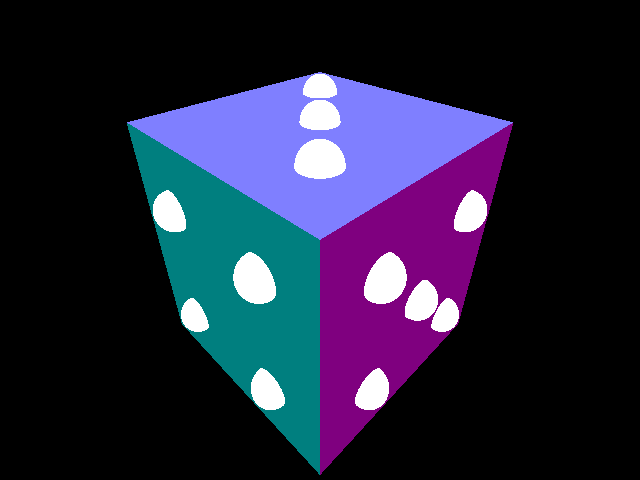
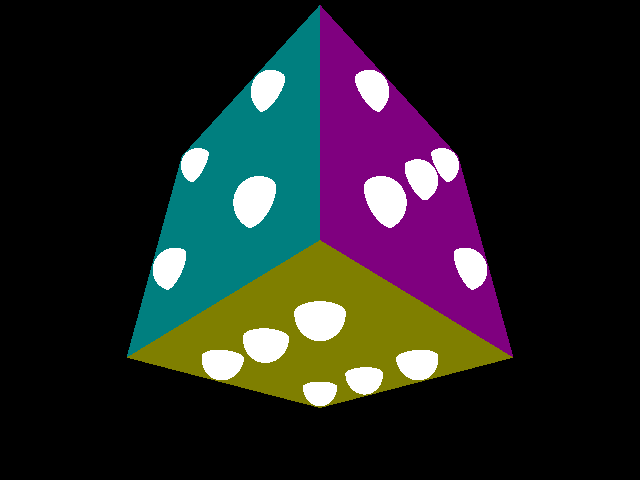
shininess fix

diff --git a/RaytracerHW/Src/Shape.cpp b/RaytracerHW/Src/Shape.cpp
@@ -1,6 +1,7 @@
 #include "Shape.hpp"
 
 #include <algorithm>
+#include <cmath>
 
 auto Shape::Shade(
     const Vec3f& lightDir, Color lightColor, const LocalGeo& localGeo, const Vec3f& halfVec,
@@ -10,7 +11,7 @@ auto Shape::Shade(
     const Vec3f lambert = material.mKd.GetVec3f() * lightColor.GetVec3f() * std::max(nDotL, 0.0f);
 
     const float nDotH = Dot(localGeo.mNormal, halfVec);
-    const Vec3f phong = material.mKs.GetVec3f() * lightColor.GetVec3f() * std::max(nDotH, 0.0f);
+    const Vec3f phong = material.mKs.GetVec3f() * lightColor.GetVec3f() * std::pow(std::max(nDotH, 0.0f), material.mShininess);
 
     return Color{ lambert + phong };
 }

diff --git a/RaytracerHW/Src/Main.cpp b/RaytracerHW/Src/Main.cpp
@@ -9,7 +9,7 @@ int main()
 
     try
     {
-        const auto configs = Parser::ParseFile("scene2.test");
+        const auto configs = Parser::ParseFile("scene4-diffuse.test");
         const SceneConfig sceneConfig{ configs };
         scene = std::make_unique<Scene>(sceneConfig);
         scene->Render();
